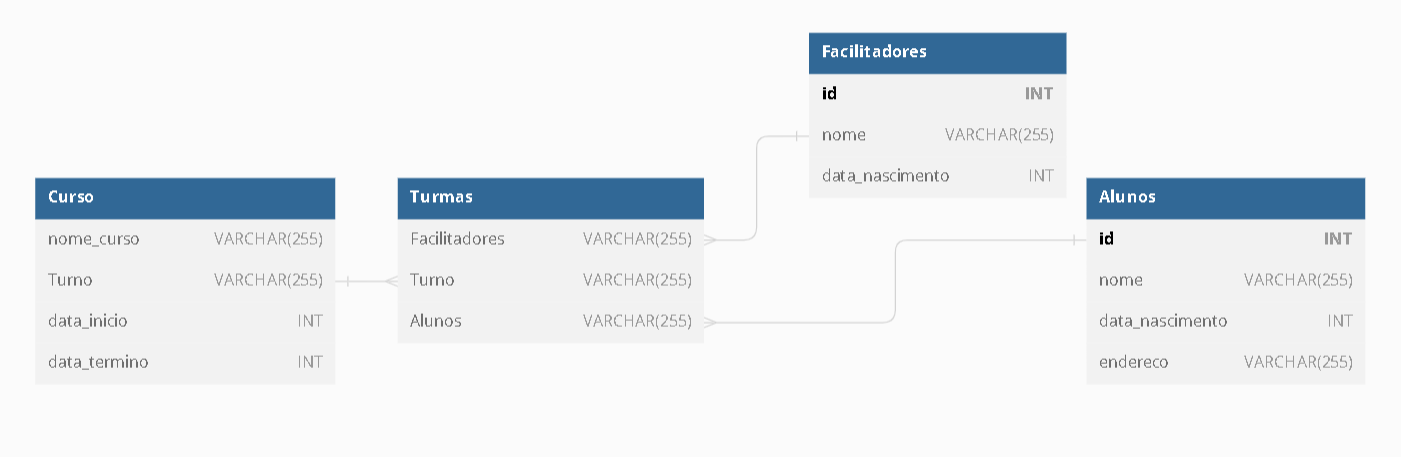
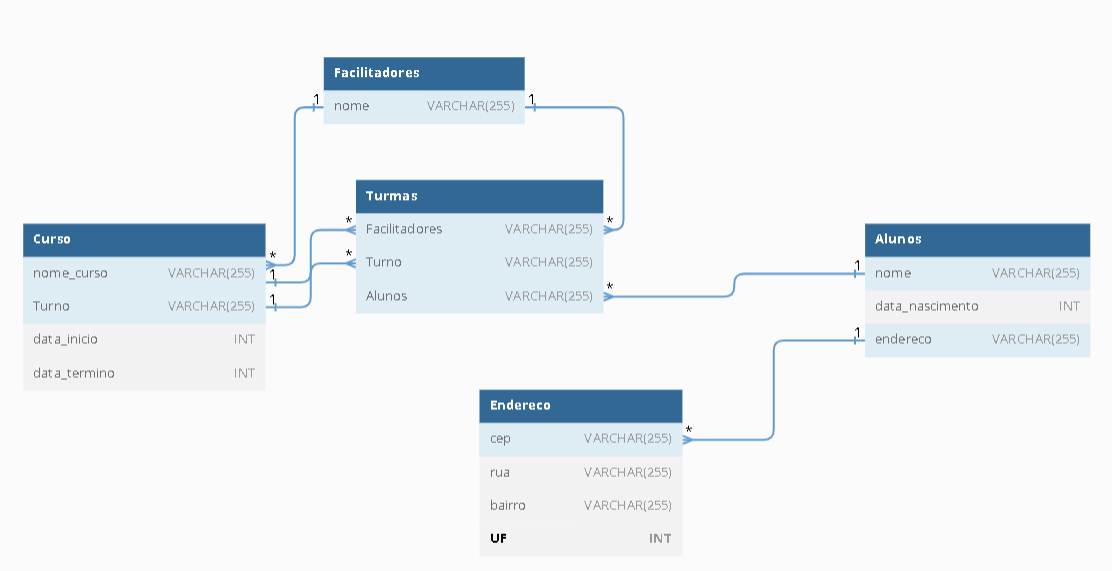
upgrade

diff --git a/README.md b/README.md
@@ -7,7 +7,7 @@ Para apoiar nesse sistema recebemos a tarefa de realizar essa modelagem e respon
 
  - Existem outras entidades além dessas três?
  
- Foi adicionada a entidade Facilitadores.
+ Foi adicionada a entidade Facilitadores e Endereco
 
 - Quais são os principais campos e tipos?
 
